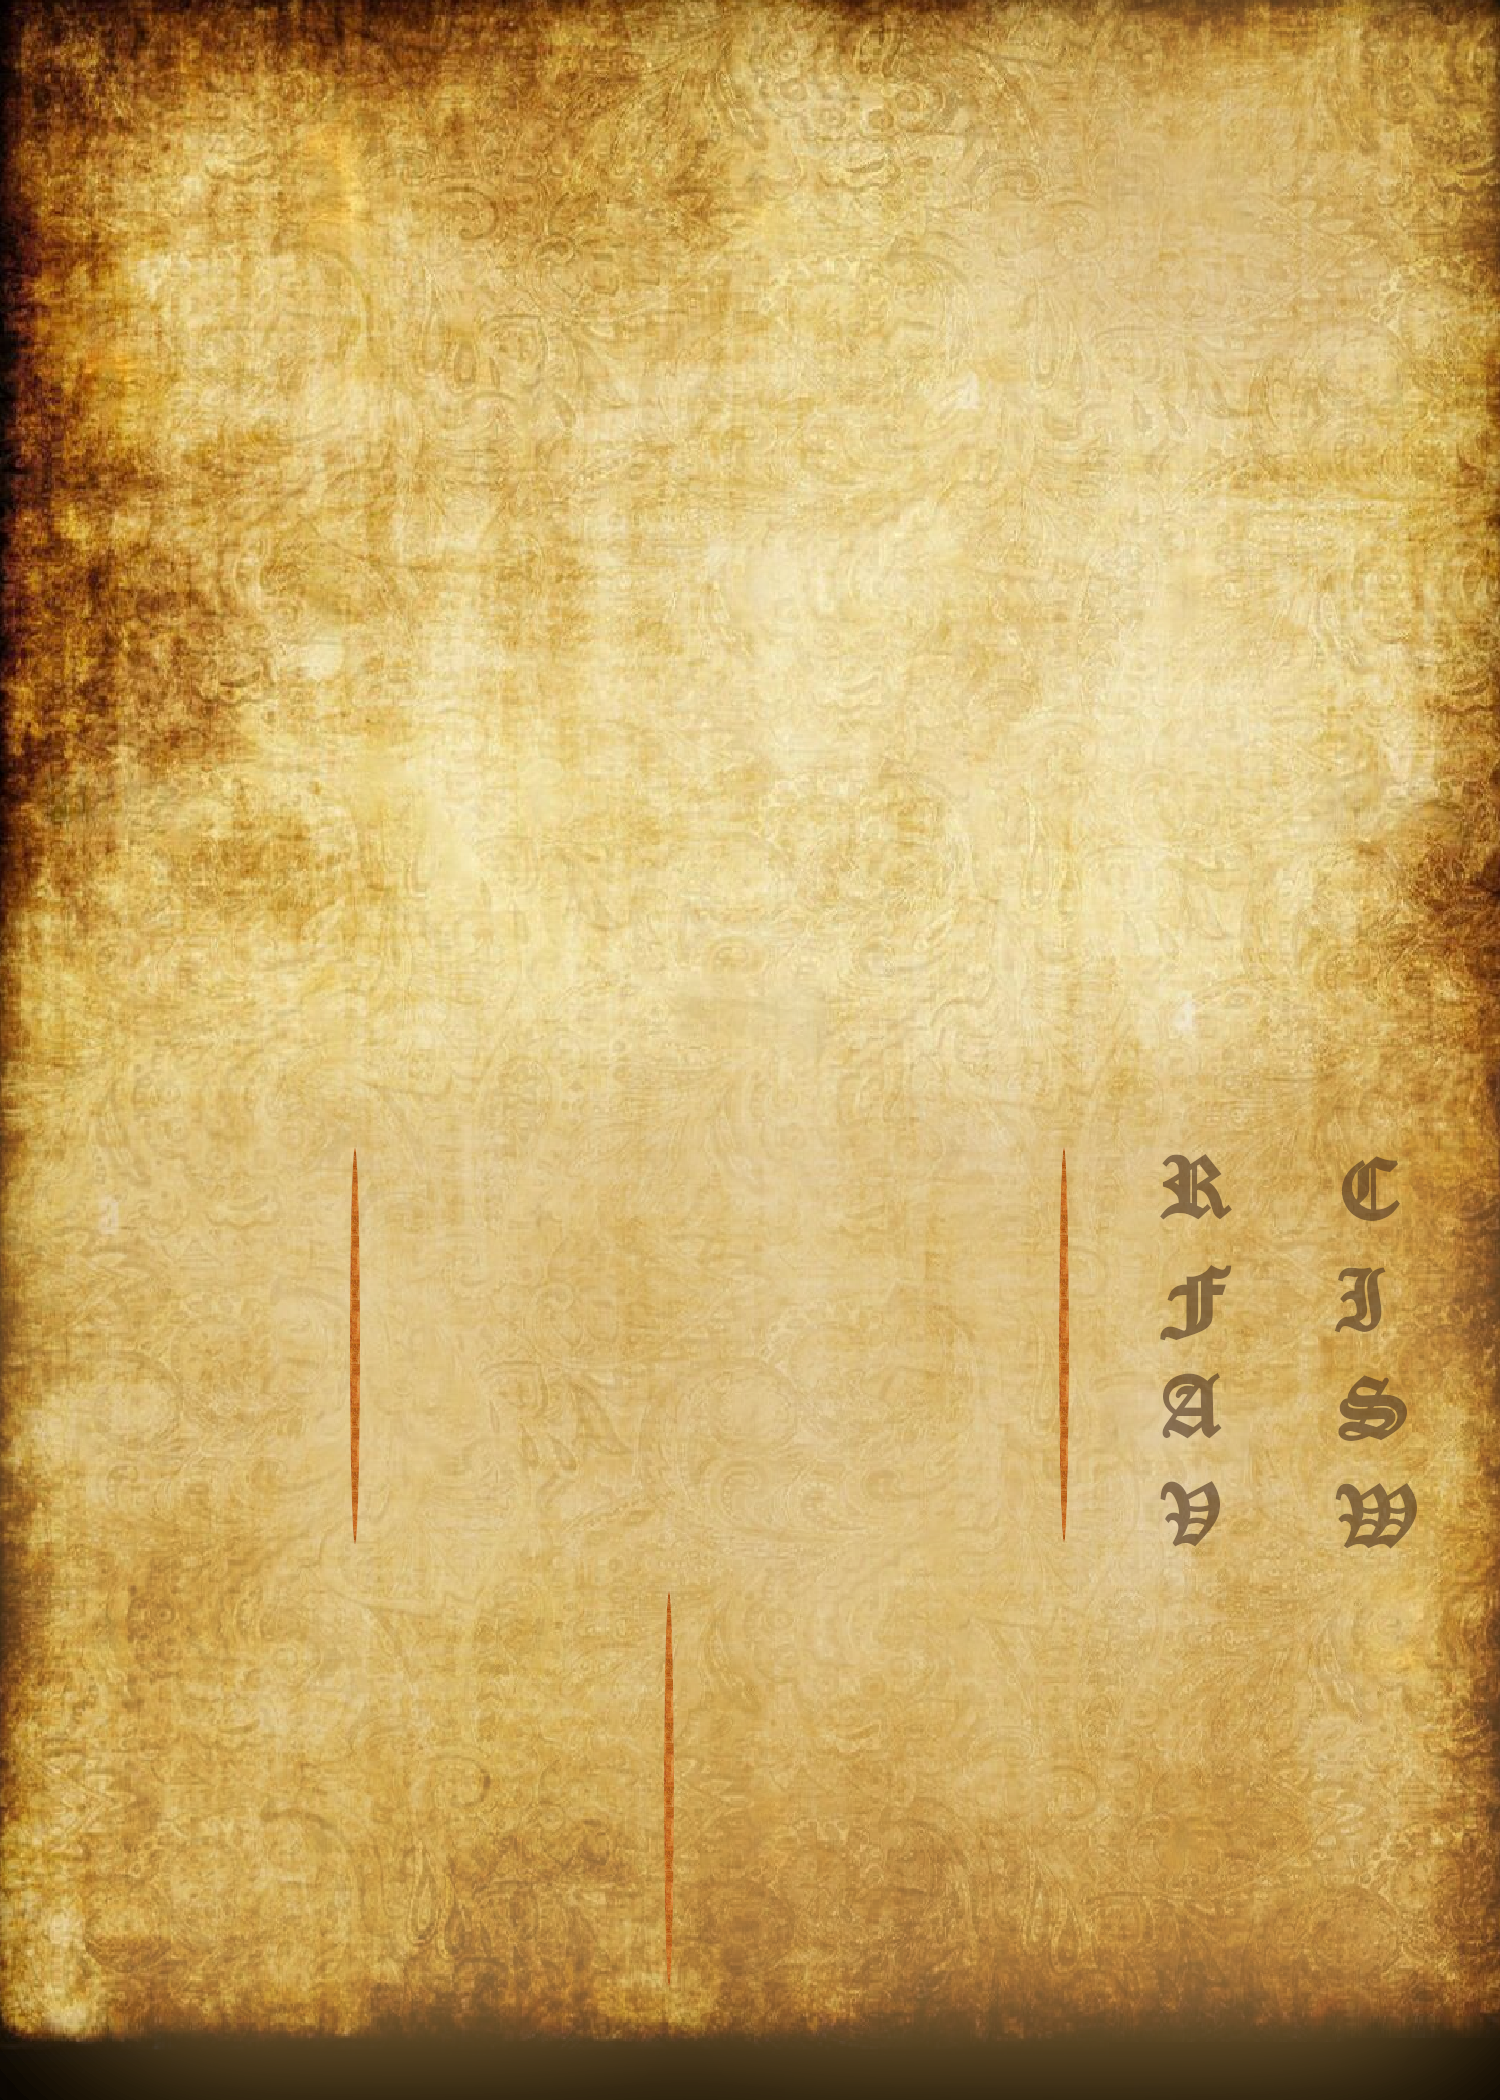
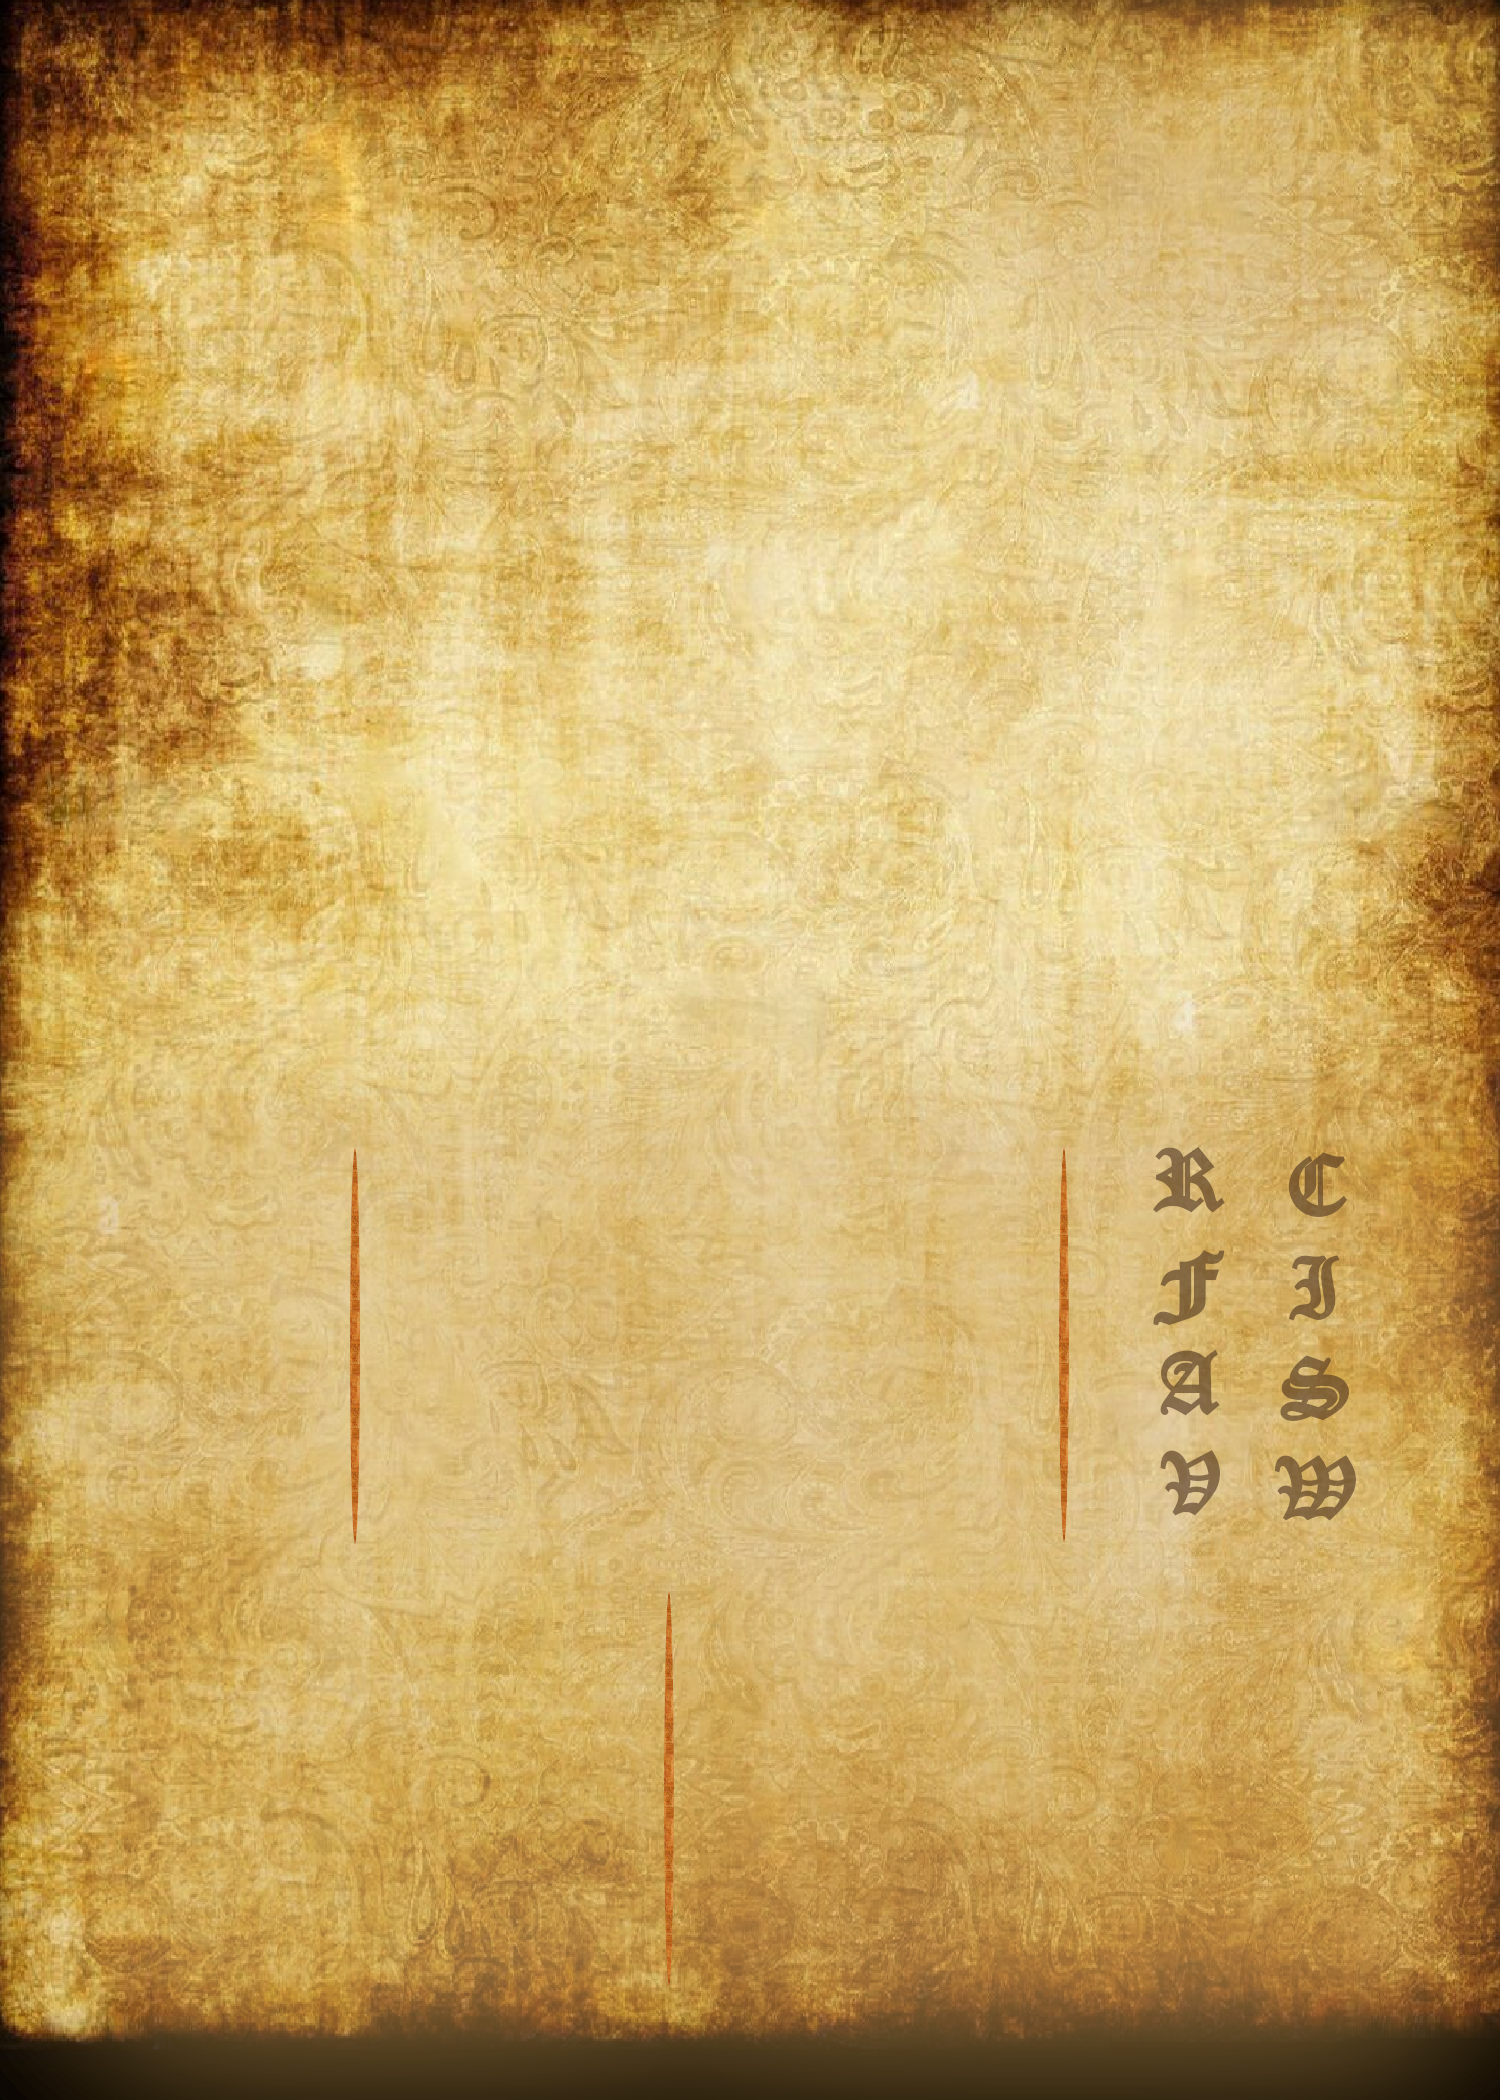
Improve card render, description and background

Changed region(s): [[0.8587, 0.5262, 0.9507, 0.7429], [0.7667, 0.5262, 0.828, 0.7429]]

diff --git a/src/render.js b/src/render.js
@@ -46,7 +46,9 @@ async function create(obj) {
 	if (!isNaN(obj.size_type)) {
 		suffix = obj.size_type == 1 ? "piece" : "pieces";
 	}
-	const desc = `${s(obj.type)} ${s(obj.size_type)} ${s(suffix)}`.toCap();
+	const desc = `${s(obj.type)} ${s(obj.extra.sub_type)} ${s(
+		obj.extra.specialization
+	)}, ${s(obj.size_type)} ${s(suffix)}`.toCap();
 
 	await image("background", [0, 0], [width, height]);
 	context.fillStyle = "#000";
@@ -54,23 +56,21 @@ async function create(obj) {
 
 	// draw card
 	text(obj.name || name, [100, 200], 70, "start", "#000", "bold");
-	text(desc, [100, 300], 50, "start", "#555", "italic");
+	text(desc, [100, 300], 40, "start", "#555", "italic");
 
-	text(s("size"), [1220, 150], 40, "center", "#555", "bold");
-	text(obj.size + 5, [1220, 270], 80, "end", "#000", "bold");
+	text(s("size"), [1200, 110], 40, "center", "#555", "bold");
+	text(obj.size + 5, [1220, 220], 80, "end", "#000", "bold");
 	const thickness = +(Math.round(obj.thickness + "e+1") + "e-1");
-	text(thickness + " G", [1230, 220], 40, "start");
+	text(thickness + " G", [1230, 170], 40, "start");
 	const dimension = +(Math.round(obj.dimension + "e+1") + "e-1");
-	text(dimension + " D", [1230, 270], 40, "start");
+	text(dimension + " D", [1230, 220], 40, "start");
 
 	//todo: set a color by parameter
 	context.fillStyle = "#777";
-	context.fillRect(90, 365, 1310, 710);
+	context.fillRect(90, 365, 1320, 720);
 	await image(obj.extra.origin, [100, 375], [1300, 700]);
 	const id =
-		obj.code +
-		(obj.custom_code ? "-" : "") +
-		(obj.custom_code || "");
+		obj.code + (obj.custom_code ? "-" : "") + (obj.custom_code || "");
 	if (fs.existsSync(`./src/img/${id}.png`)) {
 		await image(id, [100, 375], [1300, 700]);
 	} else {
